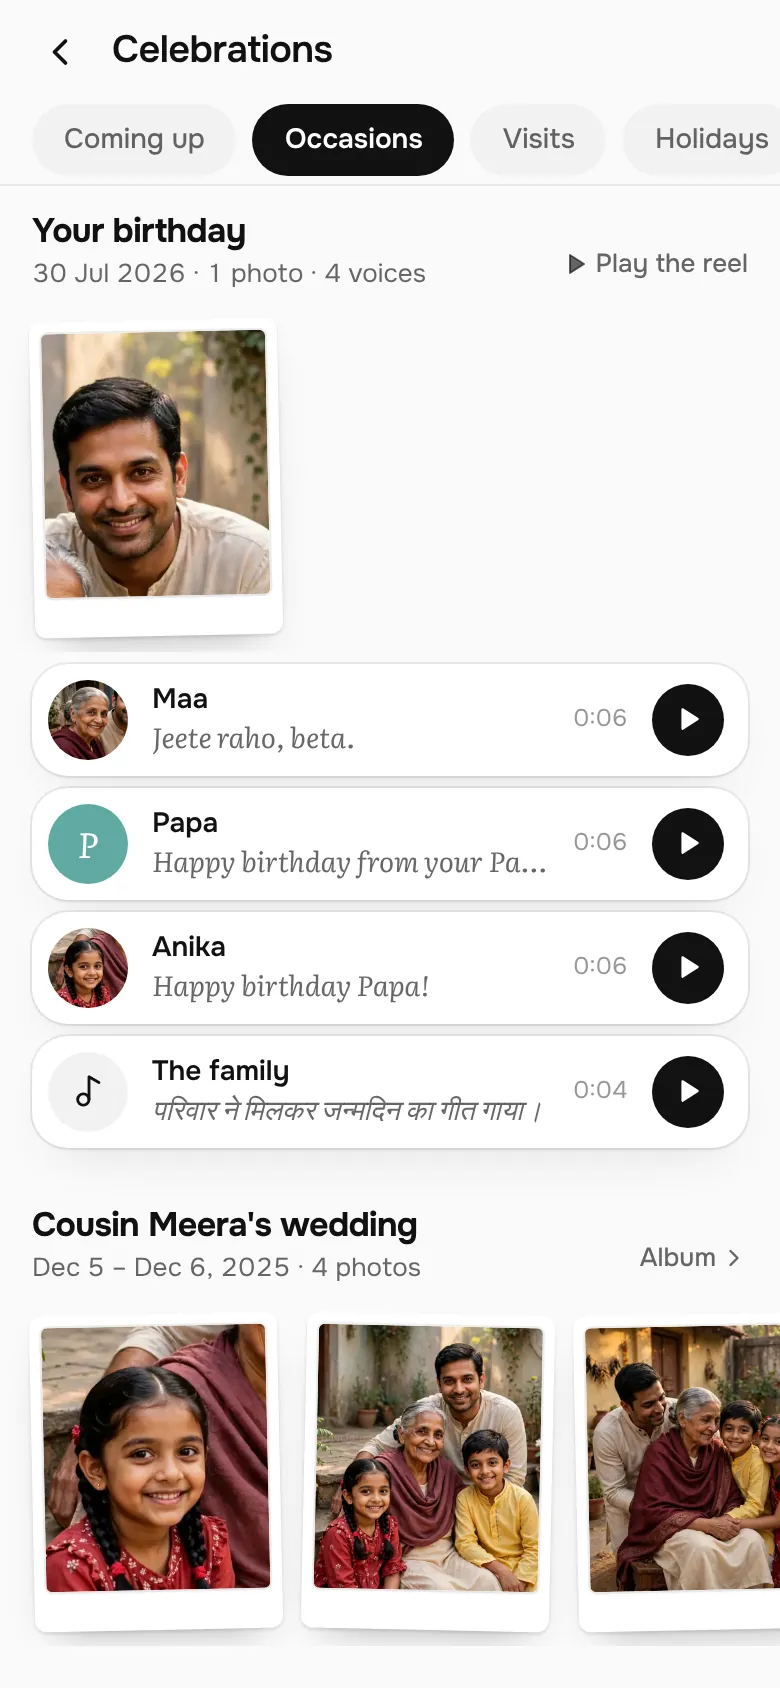
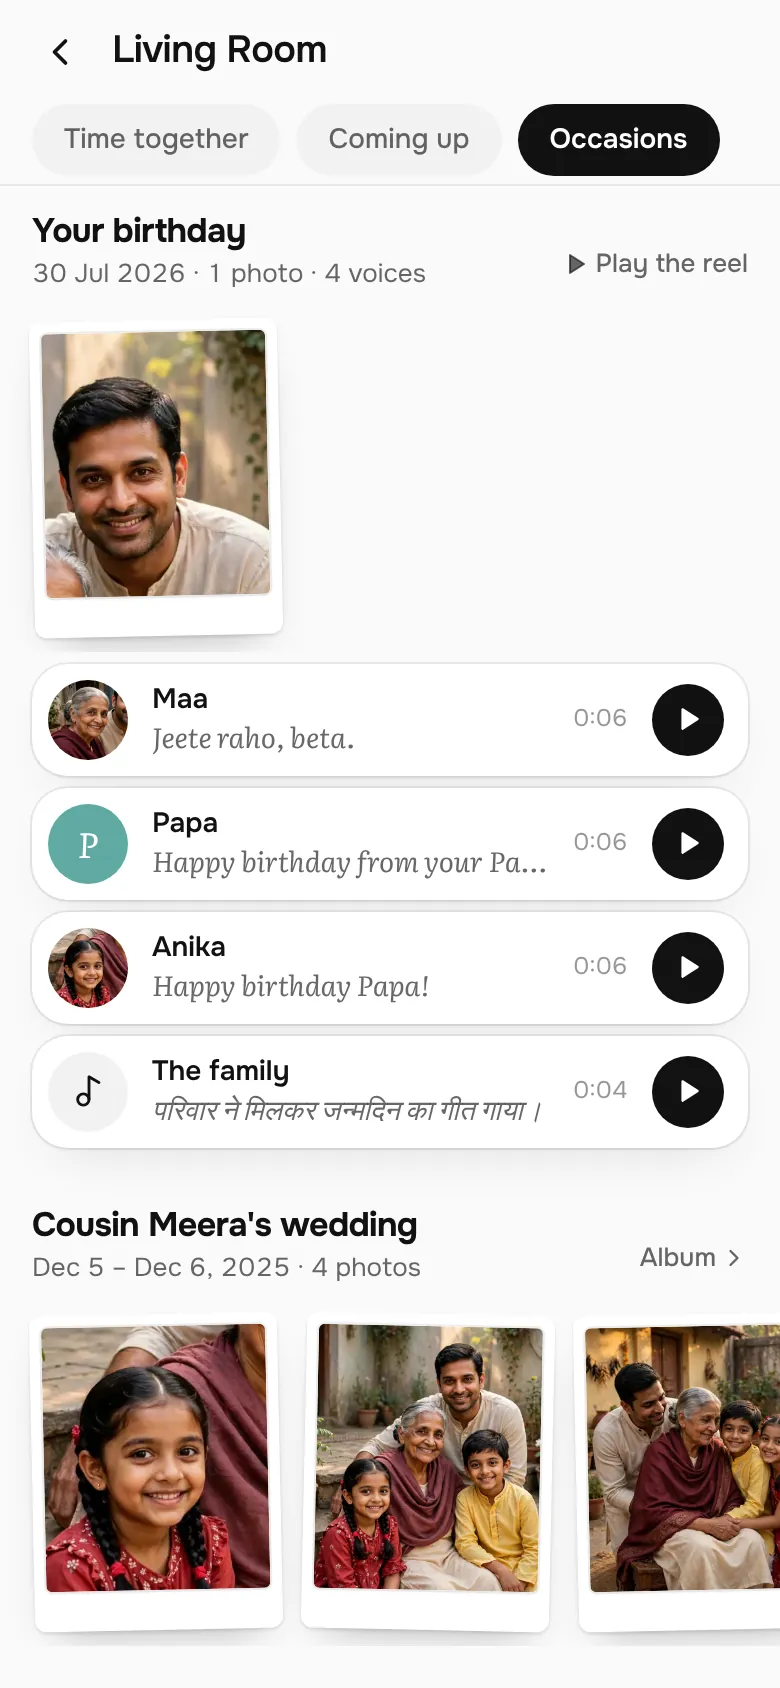
Home page: today's app in the four screenshots (window with an open door, time together, the chorus, memories) and honest feature lines

Changed region(s): [[0.0923, 0.0, 0.6154, 0.1232], [0.6462, 0.0616, 0.9846, 0.1232]]

diff --git a/components/home-site.tsx b/components/home-site.tsx
@@ -10,10 +10,10 @@ import { useEffect, useState } from "react";
 // code that opens the demo family on a phone. The installed app skips it (components/welcome.tsx).
 
 const FEATURES: { img: string; title: string; line: string }[] = [
-  { img: "/home/window.webp", title: "A window into their day", line: "Their sky right now, their city's moon, the light you keep lit for each other, and what they chose to share today." },
-  { img: "/home/family.webp", title: "The whole family, one place", line: "Who's around today, glowing. Their day in photos with captions. Today's question, answered by both homes." },
+  { img: "/home/window.webp", title: "A window into their day", line: "Their sky and the time there, the lamp you keep lit for each other, and what they chose to share today." },
+  { img: "/home/together.webp", title: "A little time together", line: "Open your door for chai, dinner or a story. They join when they can, by voice or video, and only when they tap." },
   { img: "/home/chorus.webp", title: "Everyone wishes, together", line: "A week before a birthday or a festival, everyone records a wish. On the day, the Chorus plays them one after another." },
-  { img: "/home/send.webp", title: "Care, sent in a tap", line: "Muse knows it's Maa's birthday on Friday and what she likes. Groceries, a cake or a gift, from partners, in one tap." },
+  { img: "/home/memories.webp", title: "Memories that stay", line: "Their voices, photos and stories, kept by the family. Recipes taught by voice, in the Kitchen." },
 ];
 
 function useQr(path: string): string | null {

diff --git a/scripts/home-shots.py b/scripts/home-shots.py
@@ -6,10 +6,11 @@ Starts a mock build (MOCK=true) with the server clock frozen at --now
 scripts/ui-inventory.py does), signs in to the demo (NEARER-DEMO) the way
 scripts/walk.py does, and captures 390x844 at DPR 2:
 
-  public/home/window.webp   the first screen (door closed)
-  public/home/family.webp   the house: Family
-  public/home/chorus.webp   Celebrations: occasions and the chorus
-  public/home/send.webp     Send something
+  public/home/window.webp    the first screen: their sky, the lamp, what they shared,
+                             and Maa's door open for chai (she opens it first)
+  public/home/together.webp  Living Room: Time together
+  public/home/chorus.webp    Living Room: Occasions and the chorus
+  public/home/memories.webp  Memories: Memory Lane
 
 Each WebP is kept at or under 120 KB (780 wide when it fits, else 390). Needs a mock
 build first:
@@ -33,10 +34,10 @@ TZ = "Asia/Kolkata"
 MAX_BYTES = 120 * 1024
 # (file, path, door open?, a selector that says the screen is ready)
 SHOTS = [
-    ("window", "/", False, "[data-ui=window-scene]"),
-    ("family", "/bond", True, "main"),
+    ("window", "/", False, "[data-ui=together]"),
+    ("together", "/gather/play", True, "main"),
     ("chorus", "/rituals", True, "main"),
-    ("send", "/send", True, "main"),
+    ("memories", "/lane", True, "main"),
 ]
 
 # Date shifted so a page starts at NOW and then ticks (the same shim as scripts/ui-inventory.py).
@@ -81,7 +82,7 @@ def save_webp(png: bytes, out: str) -> int:
 def main() -> int:
     ap = argparse.ArgumentParser()
     ap.add_argument("--port", type=int, default=4610)
-    ap.add_argument("--now", default="2026-11-02T16:40:00Z", help="the frozen instant (evening at the far home: the lamp and the moon)")
+    ap.add_argument("--now", default="2026-11-02T13:45:00Z", help="the frozen instant (7:15 PM at the far home: the lamp and the moon)")
     ap.add_argument("--base", default=None, help="use a server already running (it must have AANGAN_FIXED_NOW set)")
     ap.add_argument("--out", default="public/home")
     args = ap.parse_args()
@@ -97,6 +98,17 @@ def main() -> int:
         os.makedirs(args.out, exist_ok=True)
         with sync_playwright() as p:
             browser = p.chromium.launch()
+            # Maa opens her door for Arjun (chai, an hour), so the window shows a real invitation.
+            maa = browser.new_context(base_url=base)
+            res = maa.request.post("/api/session", data=json.dumps({"inviteCode": "NEARER-DEMO", "memberId": "dadi"}), headers={"content-type": "application/json"})
+            if not res.ok:
+                raise SystemExit(f"home-shots: demo sign-in (dadi) failed {res.status}")
+            page = maa.new_page()
+            page.goto("/gather/play", wait_until="load")
+            opened = page.evaluate("async () => (await fetch('/api/sit', { method: 'POST', headers: { 'content-type': 'application/json' }, body: JSON.stringify({ action: 'knock', activity: 'chai', invites: ['arjun'], minutes: 60 }) })).status")
+            if opened >= 400:
+                raise SystemExit(f"home-shots: opening Maa's door failed {opened}")
+            maa.close()
             for name, path, door_open, ready in SHOTS:
                 ctx = browser.new_context(viewport={"width": 390, "height": 844}, device_scale_factor=2, base_url=base, timezone_id=TZ, locale="en-US", color_scheme="light", reduced_motion="reduce")
                 ctx.add_init_script(CLOCK_JS % ms)
